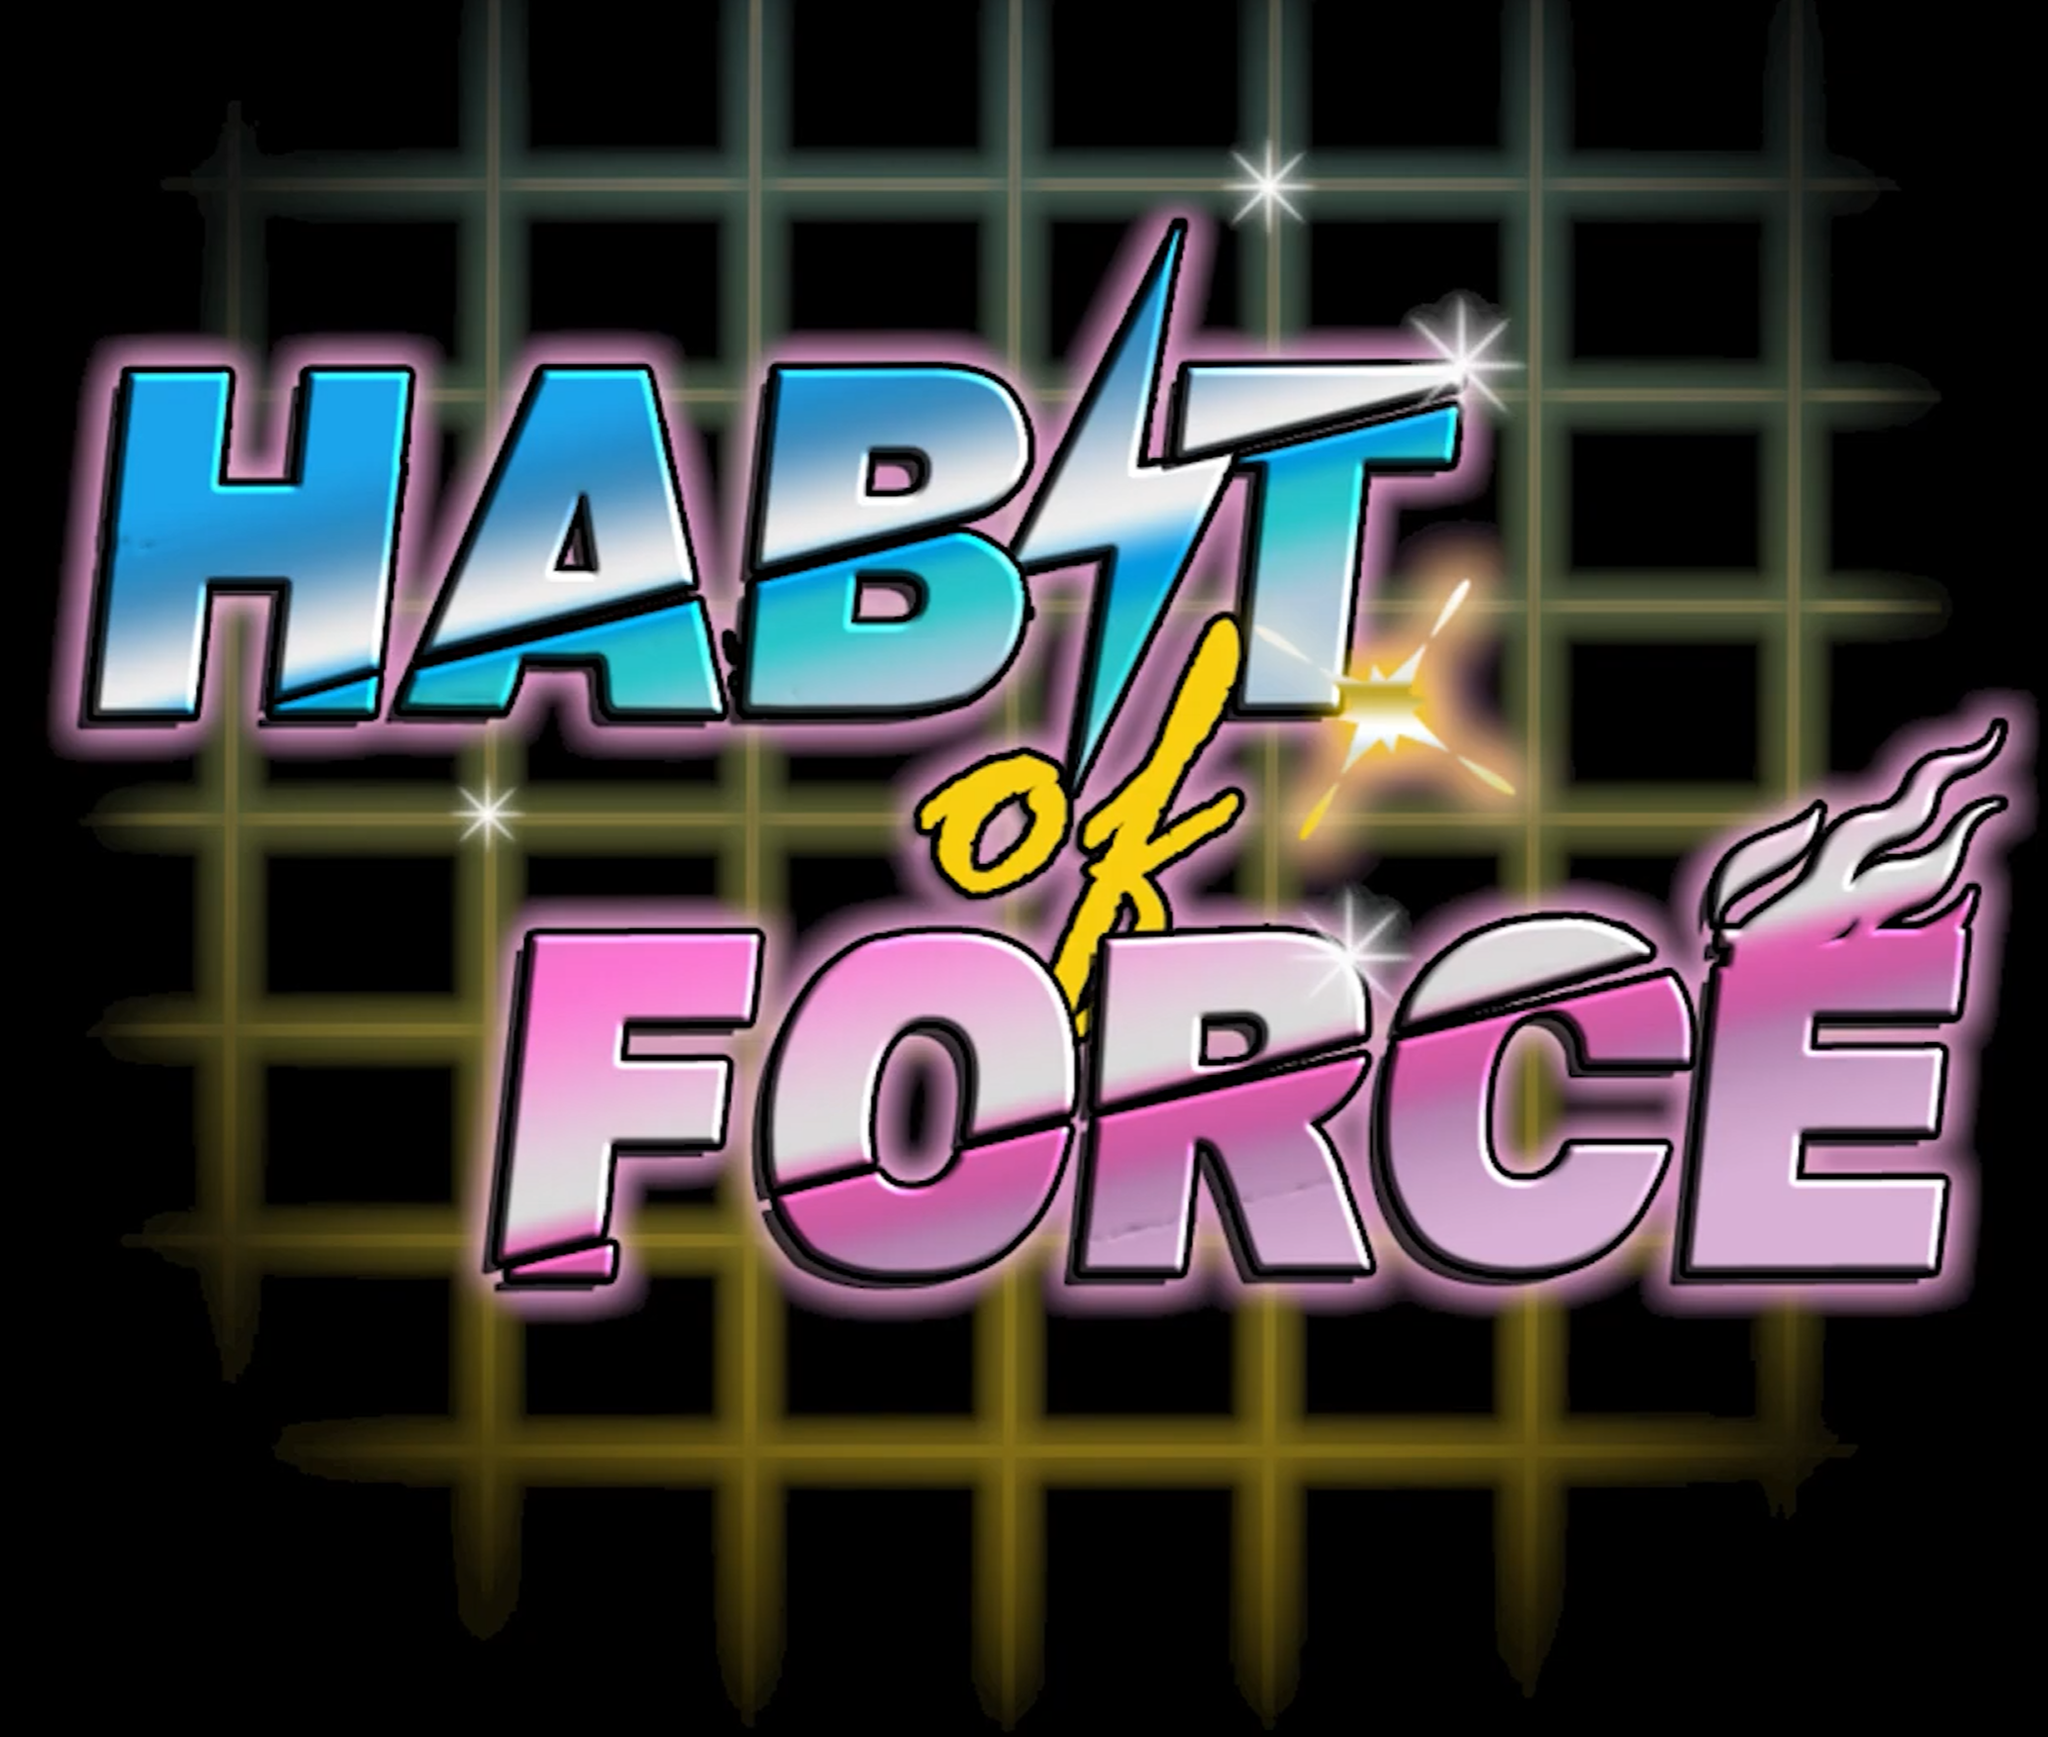
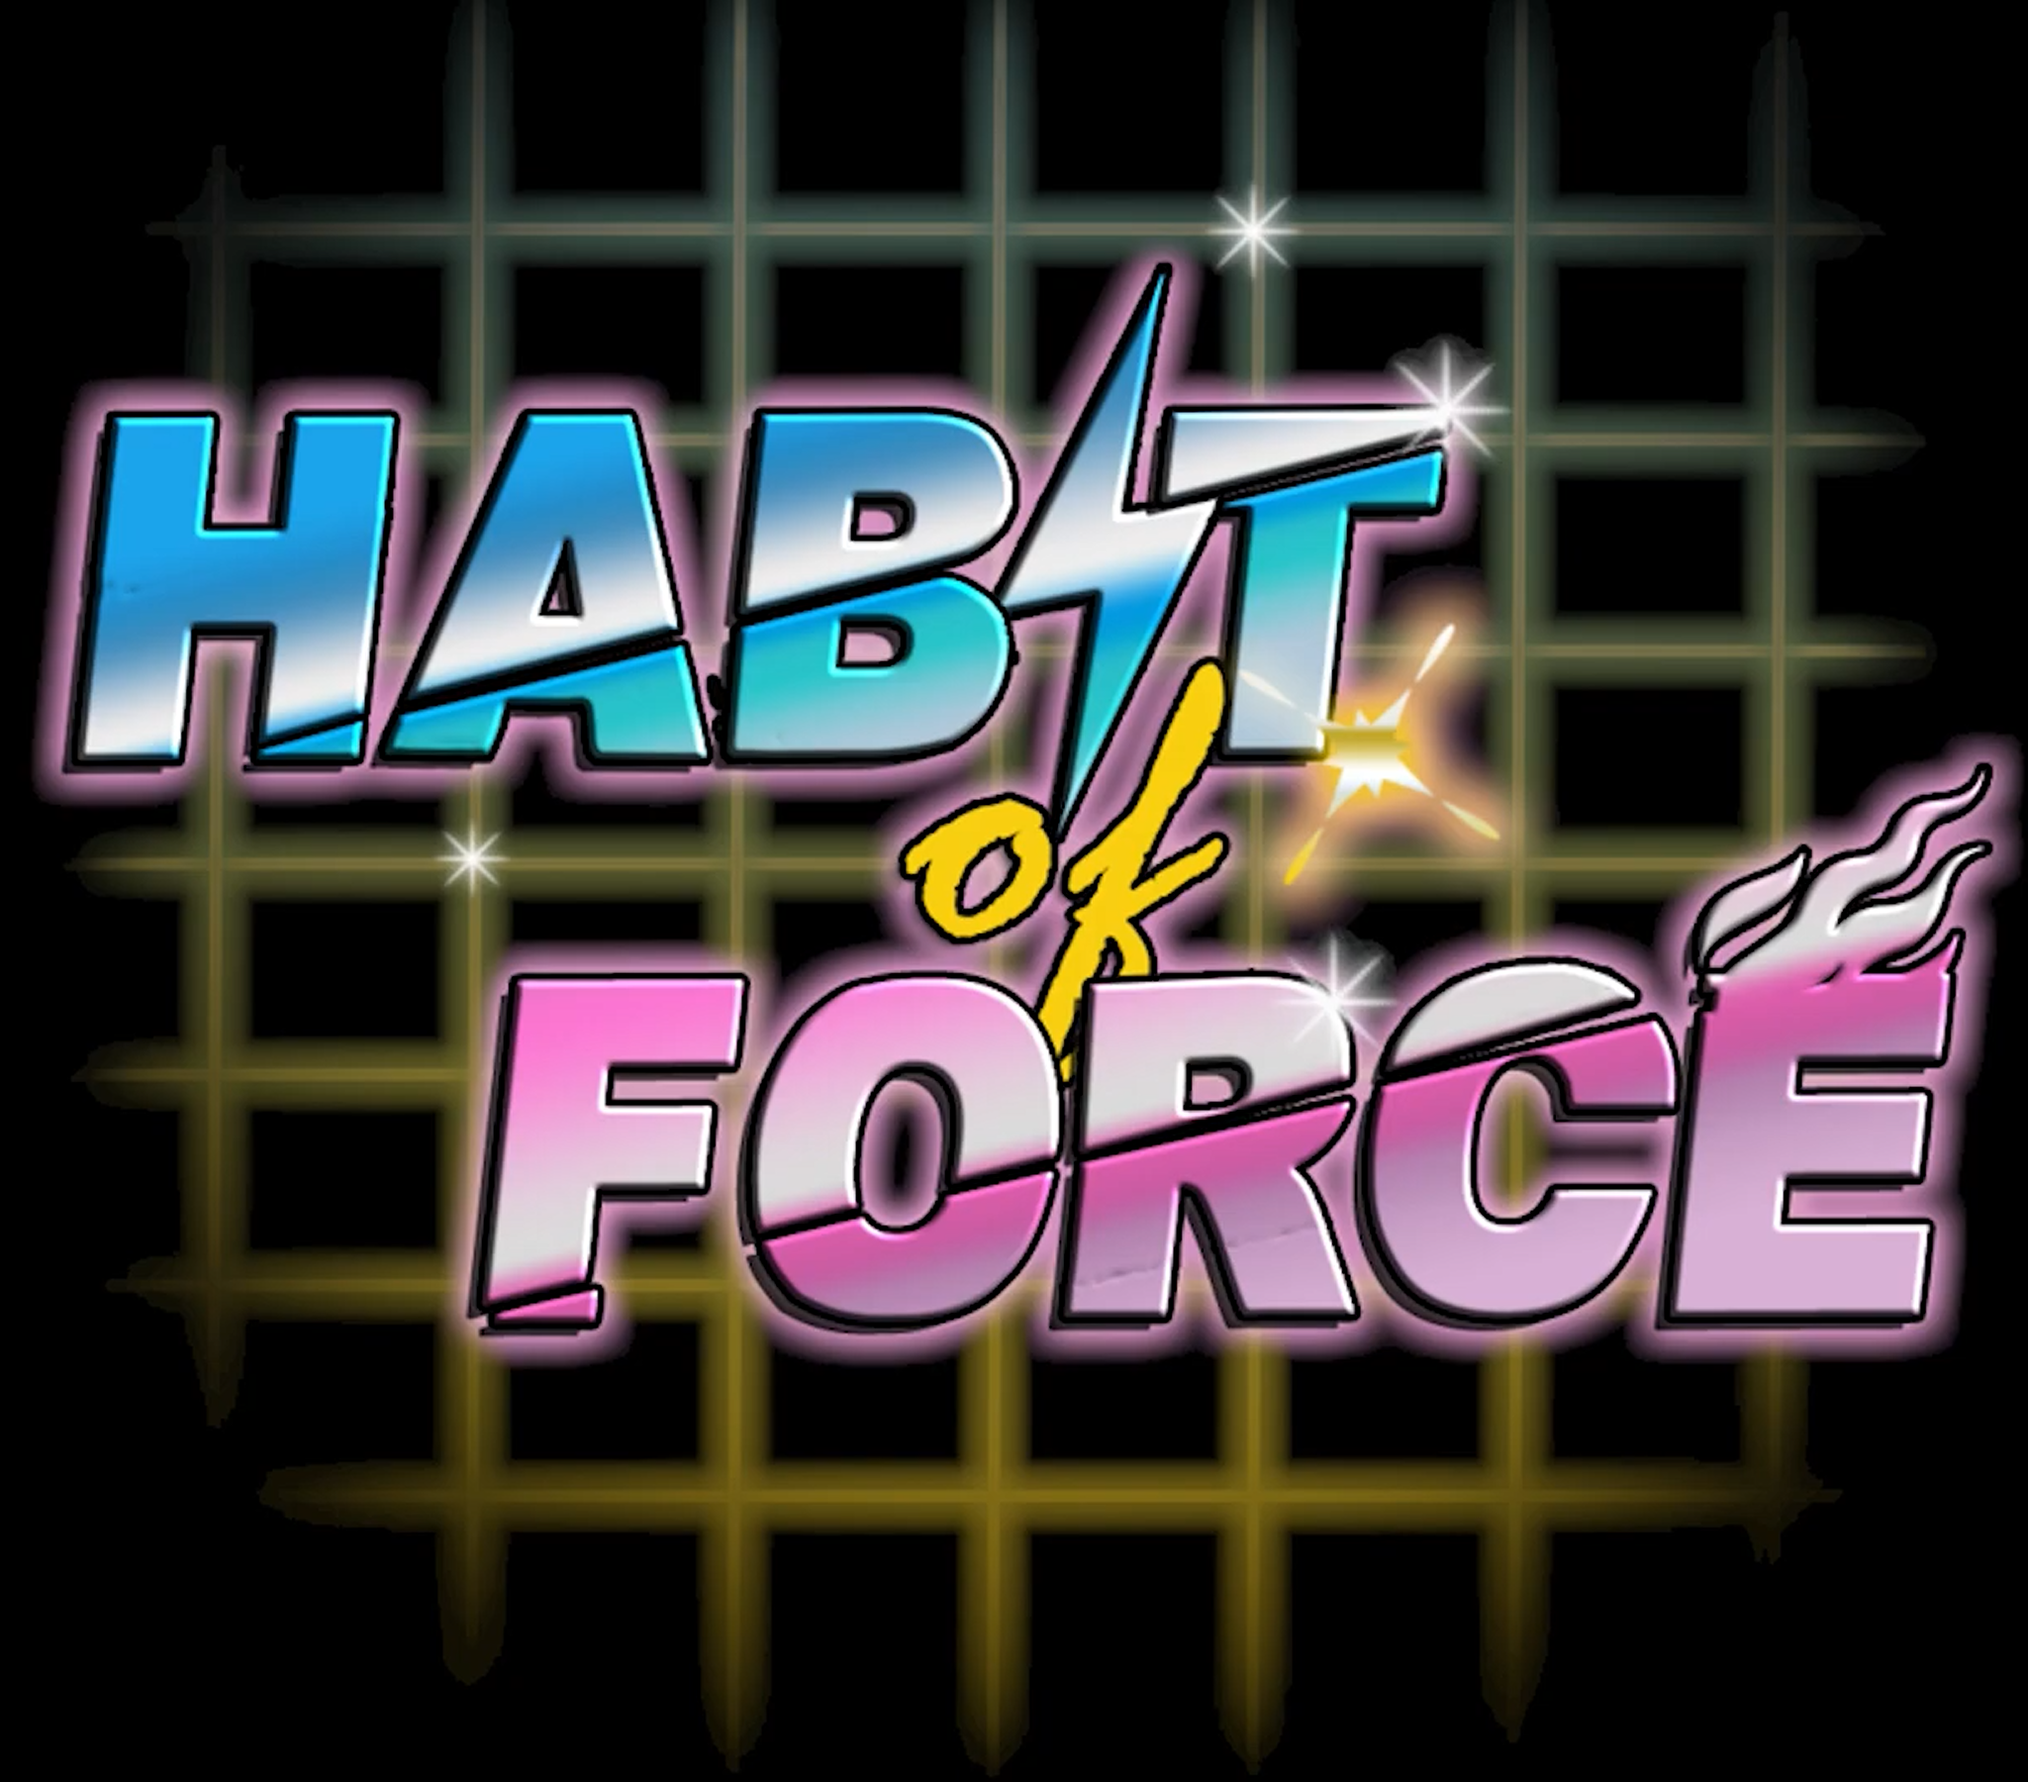
Fixed image warping (?)

diff --git a/style.css b/style.css
@@ -11,21 +11,11 @@
     display: flex;
     flex-direction: column;
     text-align: center;
+    justify-content: center;
+    width:min-content;
     background-color: rgb(23, 23, 23);
-    width: 45%;
     border-radius: 5%;
     cursor:grab;
-}
-
-@media (max-width: 768px) {
-  .project-container project {
-    display: flex;
-    flex-direction: column;
-    text-align: center;
-    background-color: rgb(23, 23, 23);
-    width: 80%;
-    border-radius: 5%;
-  }
 }
 
 .project-container project:hover {
@@ -35,8 +25,8 @@
 .small-image{
     margin-top: 0%;
     display: flex;
-    max-width:100%;
-    max-height:70%;
+    width: 30rem;
+    height: 30rem;
     border-top-left-radius: 5%;
     border-top-right-radius: 5%;
     border-bottom-style: solid;
